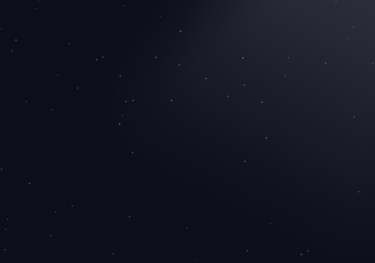
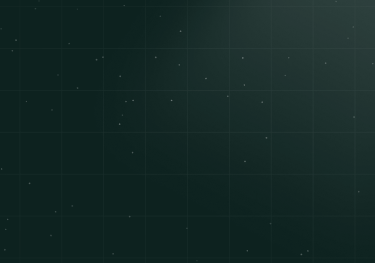
asd

diff --git a/app/User/Dashboard/page.jsx b/app/User/Dashboard/page.jsx
@@ -9,7 +9,7 @@ export default function page() {
 
     return (
         <div className='h-screen'>
-            <div className='h-fit p-4 text-white bg-[#13302c]'>
+            <div id="Head" className='h-fit p-4 text-white'>
                 <div className='mt-3 flex justify-between items-center'>
                     <div><img src="/logosolo.png" className='h-8' alt="" /></div>
                     <div className='flex'>

diff --git a/app/globals.css b/app/globals.css
@@ -10,6 +10,12 @@
   background-size: cover;
 }
 
+#Head{
+  background-image: url("/Head.png");
+  background-repeat: no-repeat;
+  background-size: cover;
+}
+
 .glass {
   /* From https://css.glass */
   background: rgba(255, 255, 255, 0.05);
